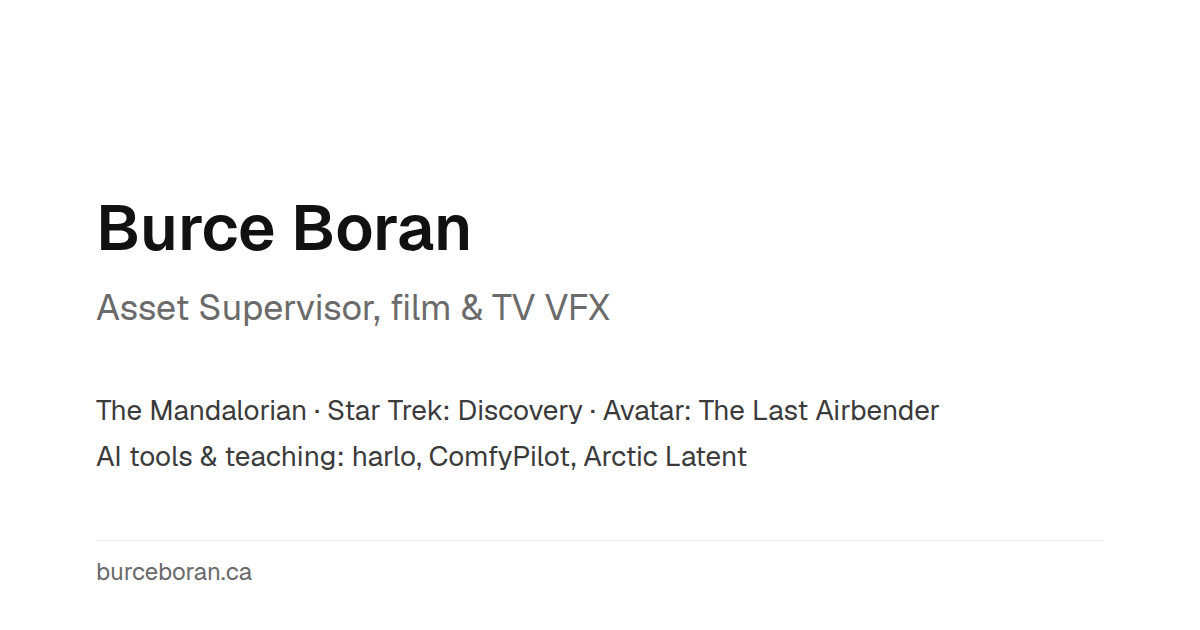
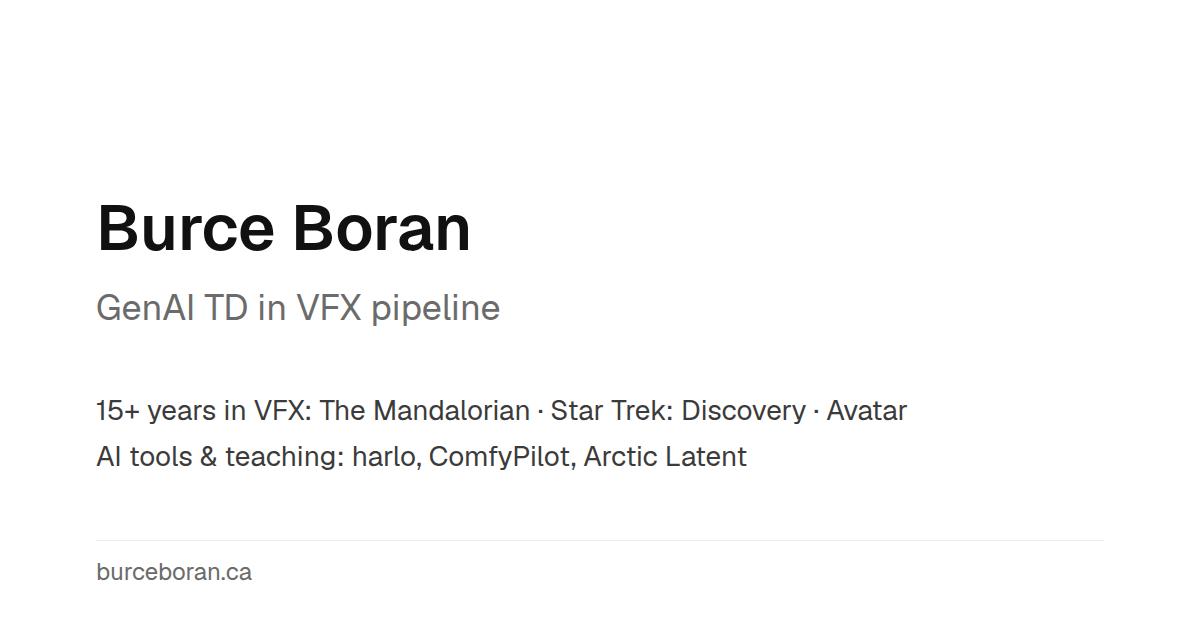
I'm a GenAI TD in pipeline now (after over 15 years in VFX, most recently as an asset supervisor): the role, bio, title, description and link preview say so; a small line drawing beside my name (a node graph wired into a wireframe sphere) and a port where the second half begins

Changed region(s): [[0.0617, 0.4524, 0.5242, 0.5127], [0.0617, 0.6333, 0.8017, 0.6937]]

diff --git a/src/styles/global.css b/src/styles/global.css
@@ -120,6 +120,82 @@ a:hover {
   border-radius: 3px;
 }
 
+/* The name, and a small line drawing beside it: a node graph wired into a
+   wireframe sphere. Hairlines only; drawn in once on load. */
+.masthead {
+  display: flex;
+  align-items: center;
+  justify-content: space-between;
+  gap: 24px;
+  margin-bottom: 24px;
+}
+
+.masthead .role {
+  margin: 0;
+}
+
+.graph {
+  flex: none;
+  width: 156px;
+  height: auto;
+  overflow: visible;
+  fill: none;
+  stroke-width: 1;
+}
+
+.graph-nodes rect,
+.graph-mesh circle,
+.graph-mesh ellipse {
+  stroke: var(--underline);
+}
+
+.graph-mesh path {
+  stroke: var(--line);
+}
+
+.graph-wires path {
+  stroke: var(--muted);
+  stroke-dasharray: 2 3;
+}
+
+.graph-ports circle {
+  fill: var(--bg);
+  stroke: var(--muted);
+}
+
+@media (prefers-reduced-motion: no-preference) {
+  .graph-nodes rect,
+  .graph-mesh > * {
+    animation: graph-in 700ms cubic-bezier(0.16, 1, 0.3, 1) both;
+  }
+
+  .graph-nodes rect:nth-child(2),
+  .graph-nodes rect:nth-child(3) {
+    animation-delay: 120ms;
+  }
+
+  .graph-mesh > * {
+    animation-delay: 260ms;
+  }
+
+  .graph-wires path,
+  .graph-ports circle {
+    animation: graph-in 500ms 160ms ease-out both;
+  }
+}
+
+@keyframes graph-in {
+  from {
+    opacity: 0;
+  }
+}
+
+@media (max-width: 520px) {
+  .graph {
+    width: 112px;
+  }
+}
+
 /* Both halves of the page, from the top. */
 .index {
   display: grid;
@@ -143,6 +219,22 @@ a:hover {
 section + section {
   margin-top: 96px;
   border-top: 1px solid var(--line);
+}
+
+section + section {
+  position: relative;
+}
+
+section + section::before {
+  content: "";
+  position: absolute;
+  top: -4px;
+  left: 0;
+  width: 7px;
+  height: 7px;
+  border-radius: 50%;
+  border: 1px solid var(--muted);
+  background: var(--bg);
 }
 
 section + section h2 {

diff --git a/src/site.js b/src/site.js
@@ -7,9 +7,9 @@ export const githubUrl = "https://github.com/ArcticLatent";
 export const linkedinUrl = "https://www.linkedin.com/in/burceboran/";
 export const youtubeUrl = "https://www.youtube.com/@ArcticLatent";
 
-export const pageTitle = "Burce Boran, Asset Supervisor";
+export const pageTitle = "Burce Boran, GenAI TD in VFX pipeline";
 export const pageDescription =
-  "Asset Supervisor in film and television VFX (The Mandalorian, Star Trek: Discovery, Avatar: The Last Airbender). I also teach ComfyUI on Arctic Latent and build free, open-source apps.";
+  "GenAI TD in VFX pipeline, after over 15 years in visual effects, most recently as an asset supervisor (The Mandalorian, Star Trek: Discovery, Avatar: The Last Airbender). I also teach ComfyUI on Arctic Latent and build free, open-source apps.";
 export const email = "burce.boran@gmail.com";
 
 // A reel's still is its Vimeo thumbnail unless `still` says otherwise: a
@@ -78,11 +78,13 @@ export const structuredData = [
     "@context": "https://schema.org",
     ...person,
     url: siteUrl,
-    jobTitle: "Asset Supervisor",
+    jobTitle: "GenAI TD, Pipeline",
     description: pageDescription,
     sameAs: [linkedinUrl, githubUrl, youtubeUrl, reels[0].url, imdbUrl],
     knowsAbout: [
       "Visual Effects",
+      "Generative AI",
+      "VFX Pipeline",
       "Asset Supervision",
       "3D Assets",
       "Texturing",

diff --git a/DESIGN.md b/DESIGN.md
@@ -94,7 +94,7 @@ components:
 
 One narrow column of text and quiet lists, in the modern minimal developer register. Hierarchy comes from weight and colour, never from size: the name, the section headings and the body all sit at 15px. Everything after the bio is a row (title left, details right, a hairline between), with small real images only where the work is visual.
 
-The world is neutral grey on white, or on near-black when the system is dark; there is no accent colour. Links are text-coloured with a thin underline. Motion is limited to short colour and opacity transitions, and none of it runs under reduced motion. The only behaviour is the reel: a still (or a lone Play pill) that becomes the Vimeo player when pressed.
+The world is neutral grey on white, or on near-black when the system is dark; there is no accent colour. Links are text-coloured with a thin underline. The only graphics are hairline drawings in the same greys: a small node graph wired into a wireframe sphere beside the name (pipeline into asset), and a port on the rule that starts the second half. Motion is limited to short colour and opacity transitions and the drawing's one fade-in on load; none of it runs under reduced motion. The only behaviour is the reel: a still (or a lone Play pill) that becomes the Vimeo player when pressed.
 
 **Key Characteristics:**
 - One 580px measure, centred, generous top space.
@@ -181,8 +181,11 @@ Real images only: poster 28x42 (3px radius), thumb 64x36 (4px radius), both with
 ### Footer
 A 1px Hairline rule, 18px above and 56px below; the contact links as a wrapping inline list (4px/12px gaps, 6px vertical padding on each link for touch), starting with the visible email address, all at 14px.
 
+### The line drawing
+An inline SVG beside the name (156px wide, 112px on phones), `aria-hidden`: three rounded node outlines in Underline Grey, dotted wires (2/3 dash) in Quiet Grey, ports as small Ground-filled circles with a Quiet Grey stroke, and a wireframe sphere (outline, one latitude and one longitude ellipse in Underline Grey, two faint Hairline bands). All 1px strokes, no fills. On load the nodes, wires and sphere fade in once (700ms, ease-out, staggered up to 260ms); under reduced motion it is simply there. Lines like these are the only decoration the page allows: hairline, monochrome, about the work (pipeline, assets), never filled or coloured.
+
 ### Index and halves
-Under the contact sentence, a two-line index at 14px: each half's name in Quiet Grey (152px column), then links to its blocks (Reels, Credits; Apps, Videos). The second half starts 96px down on a full-width Hairline rule, its heading 40px below it. Blocks keep a 24px scroll margin.
+Under the contact sentence, a two-line index at 14px: each half's name in Quiet Grey (152px column), then links to its blocks (Reels, Credits; Apps, Videos). The second half starts 96px down on a full-width Hairline rule with a 7px port circle (Quiet Grey stroke, Ground fill) at its left end, its heading 40px below it. Blocks keep a 24px scroll margin.
 
 ### Fallbacks
 A failed section is one Quiet Grey line with a link to the source; it never collapses the heading.

diff --git a/PRODUCT.md b/PRODUCT.md
@@ -8,7 +8,7 @@ web
 
 ## Users
 
-- **Film and TV VFX studios and recruiters** looking at an Asset Supervisor for a role or a contract. They arrive cold (from LinkedIn, the résumé, IMDb, a referral) and decide in seconds whether the experience is real and relevant.
+- **Film and TV VFX studios and recruiters** looking at a GenAI TD with a long asset background for a role or a contract. They arrive cold (from LinkedIn, the résumé, IMDb, a referral) and decide in seconds whether the experience is real and relevant.
 - **Producers and teams needing freelance or contract work**: asset work, or AI/ComfyUI workflow design.
 - **Artists and creators** who know Arctic Latent or the apps, and come to install an app or follow the channel.
 
@@ -23,7 +23,7 @@ The personal site of Burce Boran: proof of 15+ years of film and television VFX 
 
 ## Positioning
 
-An Asset Supervisor who also builds the tools and teaches the workflows: production credits on major shows, alongside shipped native Linux apps and a ComfyUI tutorial channel. Few people can claim both sides.
+A GenAI TD in VFX pipeline with over 15 years of production behind them (most recently as an asset supervisor), who also builds the tools and teaches the workflows: production credits on major shows, alongside shipped native Linux apps and a ComfyUI tutorial channel. Few people can claim both sides.
 
 ## Operating Context
 
@@ -46,7 +46,7 @@ An Asset Supervisor who also builds the tools and teaches the workflows: product
 
 ## Evidence on Hand
 
-- Role: Asset Supervisor, 15+ years across design, VFX, film and television.
+- Role (updated 2026-11-13): GenAI TD in pipeline in the VFX industry. Before that, over 15 years in VFX, most recently as an asset supervisor. The site names the role only, no employer.
 - Credits (the résumé is the source of truth; the site shows exactly these, with Metacritic posters): Final Destination: Bloodlines, Borderlands, Avatar: The Last Airbender (8 episodes, all 3 seasons), Goliath (10), The Mandalorian (4), Star Trek: Discovery (21), Carnival Row (8), Colony (6), See (1), The Stand (1), Midway, Goosebumps 2: Haunted Halloween. The filmography section is fetched from Metacritic.
 - Reels on Vimeo (`src/site.js`): VFX Demo Reel, Unreal Environment Reel, VFX Demo Reel 2, VFX Demo Reel 3 (years to confirm; Vimeo titles carry some).
 - Apps: harlo (harlo.run), ComfyPilot, Bootcraft, ComfyCatalog (GitHub: ArcticLatent). ComfyCatalog has no logo of its own yet.
